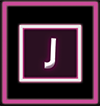
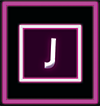
change colour and asset
on the rhythm game ASJK buttons

diff --git a/Assets/Scripts/Rhythm Game/NoteArea.cs b/Assets/Scripts/Rhythm Game/NoteArea.cs
@@ -68,7 +68,7 @@ public class NoteArea : MonoBehaviour
 
     IEnumerator Pressed()
     {
-        sr.color = new Color(0, 0, 0);
+        sr.color = new Color(1, 1, 0);
         yield return new WaitForSeconds(0.2f);
         sr.color = original;
     }
